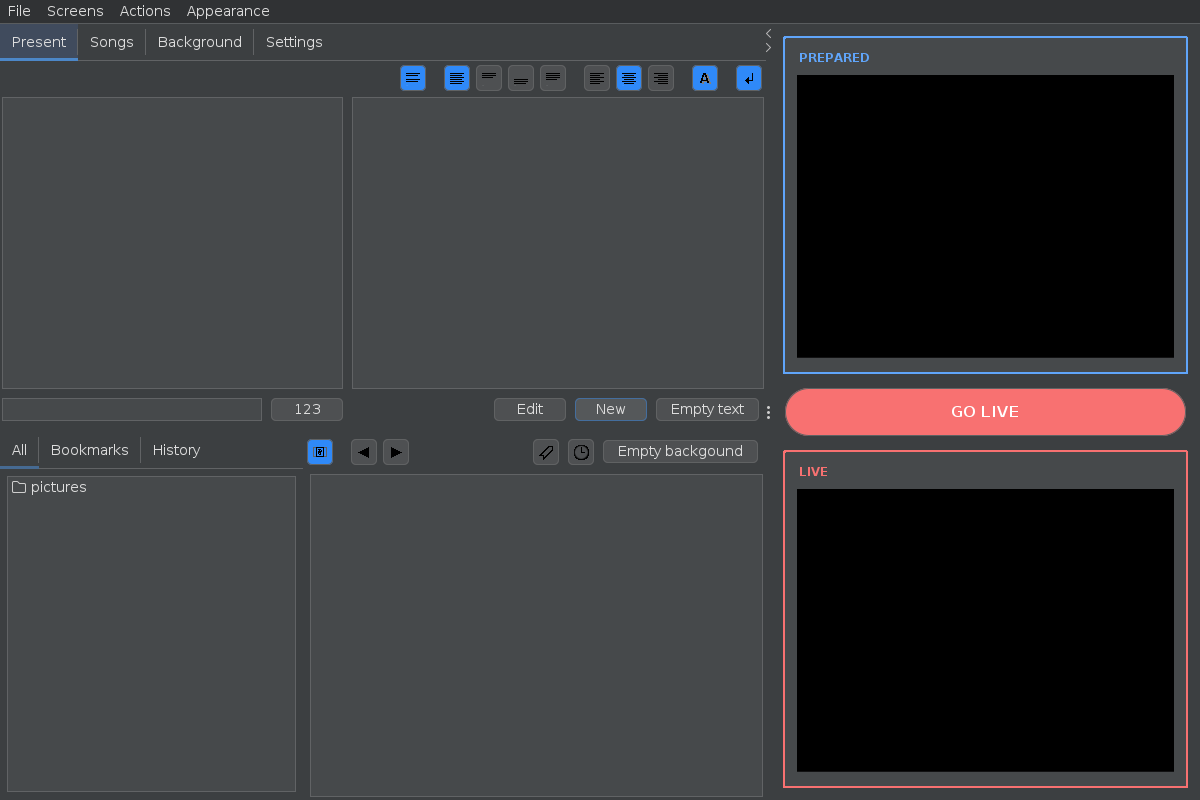
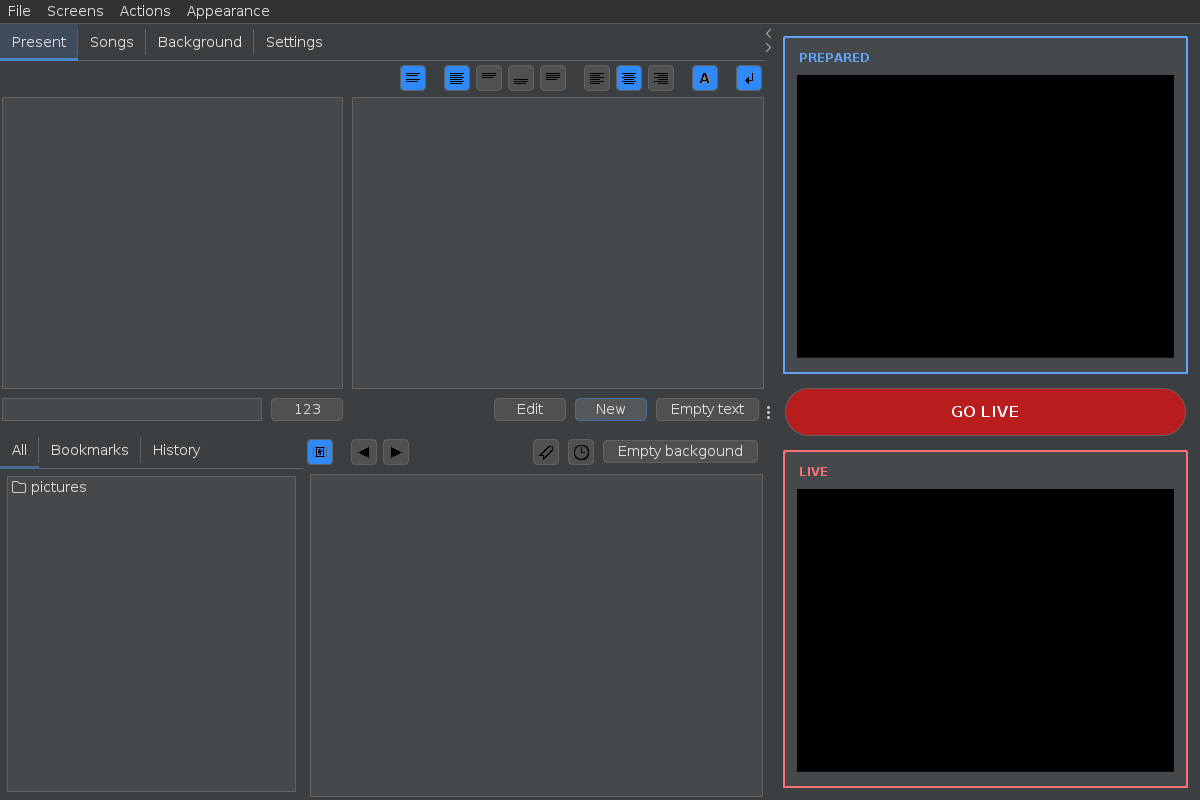
fix: preserve contrast across theme changes

Changed region(s): [[0.6475, 0.4688, 0.9867, 0.5625]]

diff --git a/src/test/java/sk/calvary/worship/ui/OperatorPreviewPanelTest.java b/src/test/java/sk/calvary/worship/ui/OperatorPreviewPanelTest.java
@@ -36,6 +36,29 @@ class OperatorPreviewPanelTest {
         assertTrue(panel.getMinimumSize().width >= 300);
     }
 
+    @Test
+    void refreshesSemanticColorsWhenTheThemeChanges() throws Exception {
+        AtomicReference<OperatorPreviewPanel> panelRef = new AtomicReference<>();
+        SwingUtilities.invokeAndWait(() -> panelRef.set(new OperatorPreviewPanel(
+                new JPanel(),
+                new JPanel(),
+                new JButton("GO LIVE"),
+                "PREPARED",
+                "LIVE"
+        )));
+
+        OperatorPreviewPanel panel = panelRef.get();
+        JButton action = (JButton) findByName(panel, "goLiveButton");
+        assertEquals(new Color(0xDC2626), action.getBackground());
+
+        SwingUtilities.invokeAndWait(() -> {
+            UiTheme.install(UiTheme.DARK);
+            SwingUtilities.updateComponentTreeUI(panel);
+        });
+
+        assertEquals(new Color(0xB91C1C), action.getBackground());
+    }
+
     private static Component findByName(Container root, String name) {
         if (name.equals(root.getName()))
             return root;

diff --git a/src/test/java/sk/calvary/worship/ui/UiThemeTest.java b/src/test/java/sk/calvary/worship/ui/UiThemeTest.java
@@ -6,6 +6,7 @@ import org.junit.jupiter.api.AfterEach;
 import org.junit.jupiter.api.Test;
 
 import javax.swing.*;
+import java.awt.Color;
 
 import static org.junit.jupiter.api.Assertions.*;
 
@@ -39,5 +40,14 @@ class UiThemeTest {
         UiTheme.install(UiTheme.DARK);
 
         assertInstanceOf(FlatDarkLaf.class, UIManager.getLookAndFeel());
+        assertEquals(new Color(0x60A5FA), UIManager.getColor("jWorship.preparedAccent"));
+    }
+
+    @Test
+    void darkThemeUsesAHighContrastLiveActionColor() {
+        UiTheme.install(UiTheme.DARK);
+
+        assertEquals(new Color(0xB91C1C),
+                UIManager.getColor("jWorship.liveActionBackground"));
     }
 }

diff --git a/src/main/java/sk/calvary/worship/ui/OperatorPreviewPanel.java b/src/main/java/sk/calvary/worship/ui/OperatorPreviewPanel.java
@@ -113,7 +113,11 @@ public final class OperatorPreviewPanel extends JPanel {
                 new LineBorder(liveAccent, 2, true),
                 new EmptyBorder(GAP, GAP, GAP, GAP)
         ));
-        goLiveButton.setBackground(liveAccent);
+        Color liveAction = UIManager.getColor("jWorship.liveActionBackground");
+        if (liveAction == null) {
+            liveAction = new Color(0xDC2626);
+        }
+        goLiveButton.setBackground(liveAction);
         goLiveButton.setForeground(Color.WHITE);
     }
 

diff --git a/src/main/java/sk/calvary/worship/ui/UiTheme.java b/src/main/java/sk/calvary/worship/ui/UiTheme.java
@@ -54,6 +54,8 @@ public enum UiTheme {
                 selected == DARK ? new Color(0x60A5FA) : new Color(0x2563EB));
         UIManager.put("jWorship.liveAccent",
                 selected == DARK ? new Color(0xF87171) : new Color(0xDC2626));
+        UIManager.put("jWorship.liveActionBackground",
+                selected == DARK ? new Color(0xB91C1C) : new Color(0xDC2626));
     }
 
     public static void installAndRefresh(UiTheme theme) {
